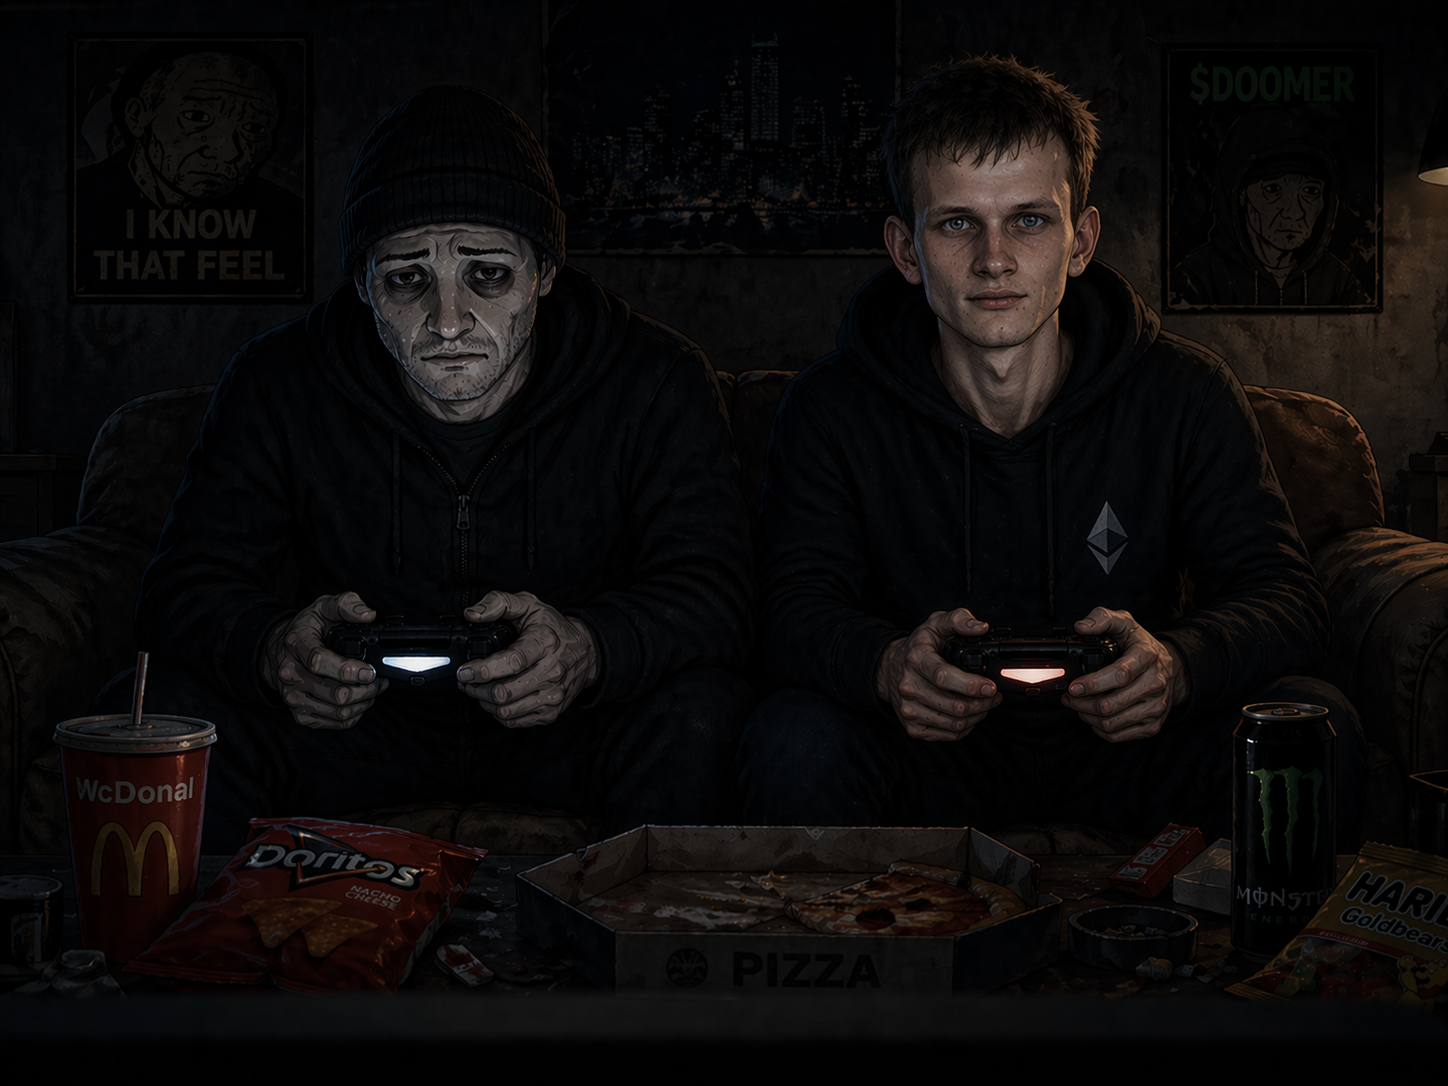
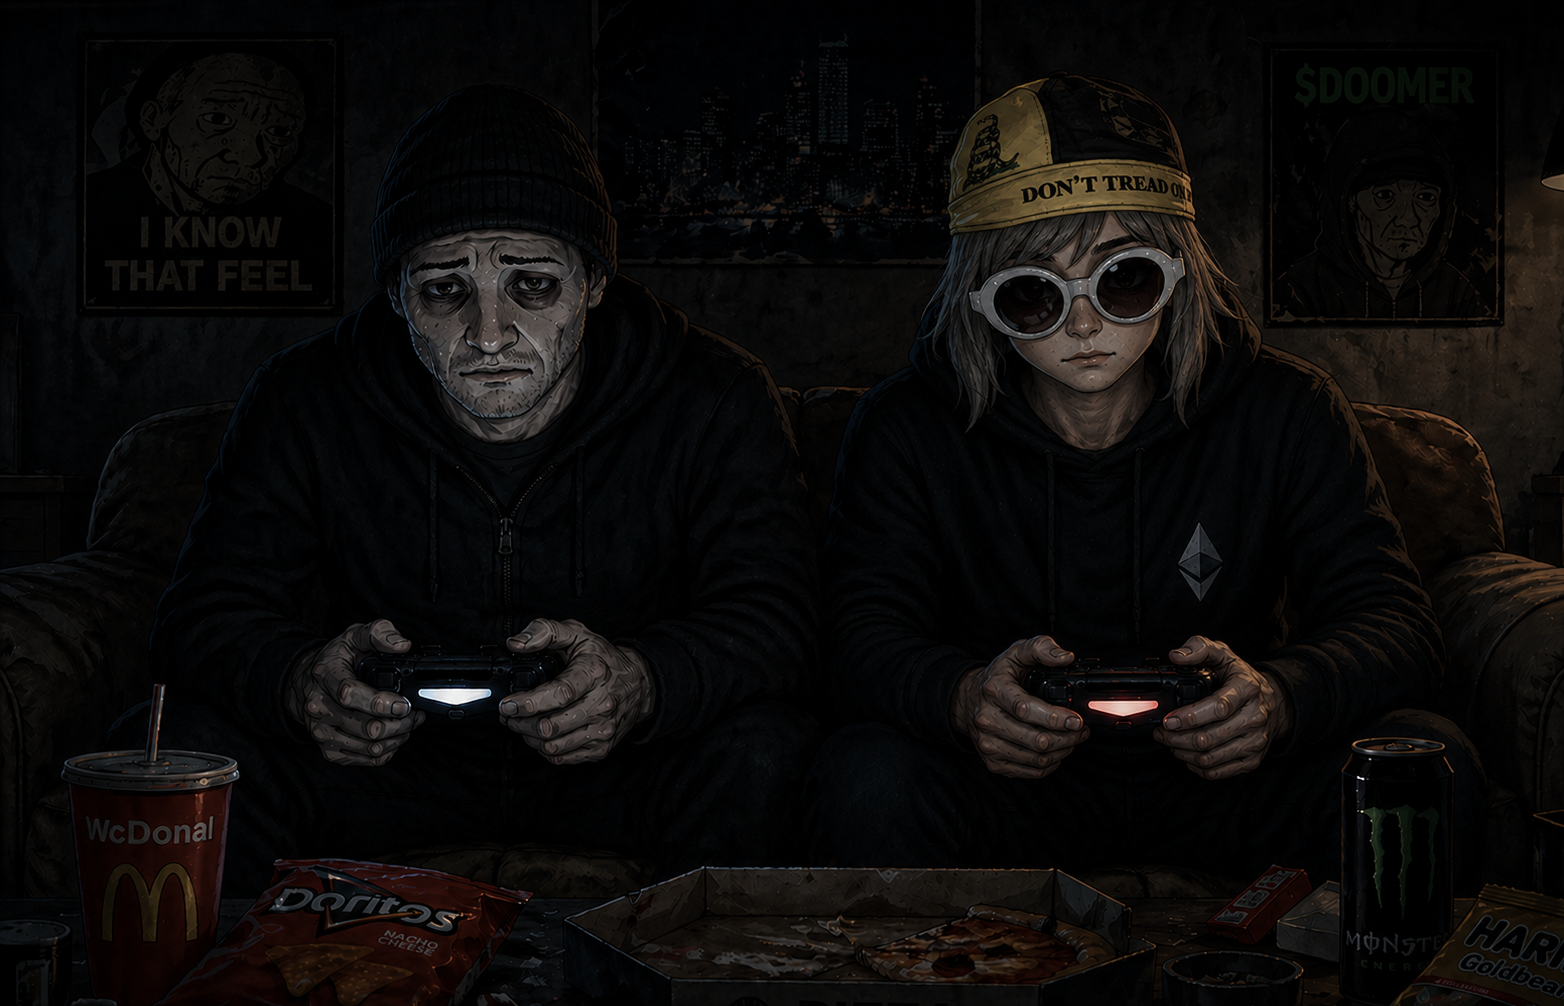
CA change

diff --git a/index.html b/index.html
@@ -595,14 +595,14 @@
             <div class="hero-ca" onclick="copyCA()">
                 <div style="flex:1;text-align:left">
                     <div class="hero-ca-label">CA</div>
-                    <div class="hero-ca-address" id="ca-text">0x76ba7c0ddf1e992dd5b1631e09e17d39a5b3834e</div>
+                    <div class="hero-ca-address" id="ca-text">dEhs9YAFSDAVVfotdYDFHiM16jiMcAZzVbTC6cmpump</div>
                 </div>
                 <div class="hero-ca-copy" id="ca-copy-label">copy</div>
             </div>
 
             <div class="hero-buttons">
                 <a href="https://app.uniswap.org/swap?outputCurrency=0x76ba7c0ddf1e992dd5b1631e09e17d39a5b3834e" target="_blank" class="btn btn-primary">Buy on Uniswap</a>
-                <a href="https://dexscreener.com/ethereum/0x76ba7c0ddf1e992dd5b1631e09e17d39a5b3834e" target="_blank" class="btn btn-ghost">Chart</a>
+                <a href="https://dexscreener.com/solana/dEhs9YAFSDAVVfotdYDFHiM16jiMcAZzVbTC6cmpump" target="_blank" class="btn btn-ghost">Chart</a>
             </div>
         </div>
     </section>
